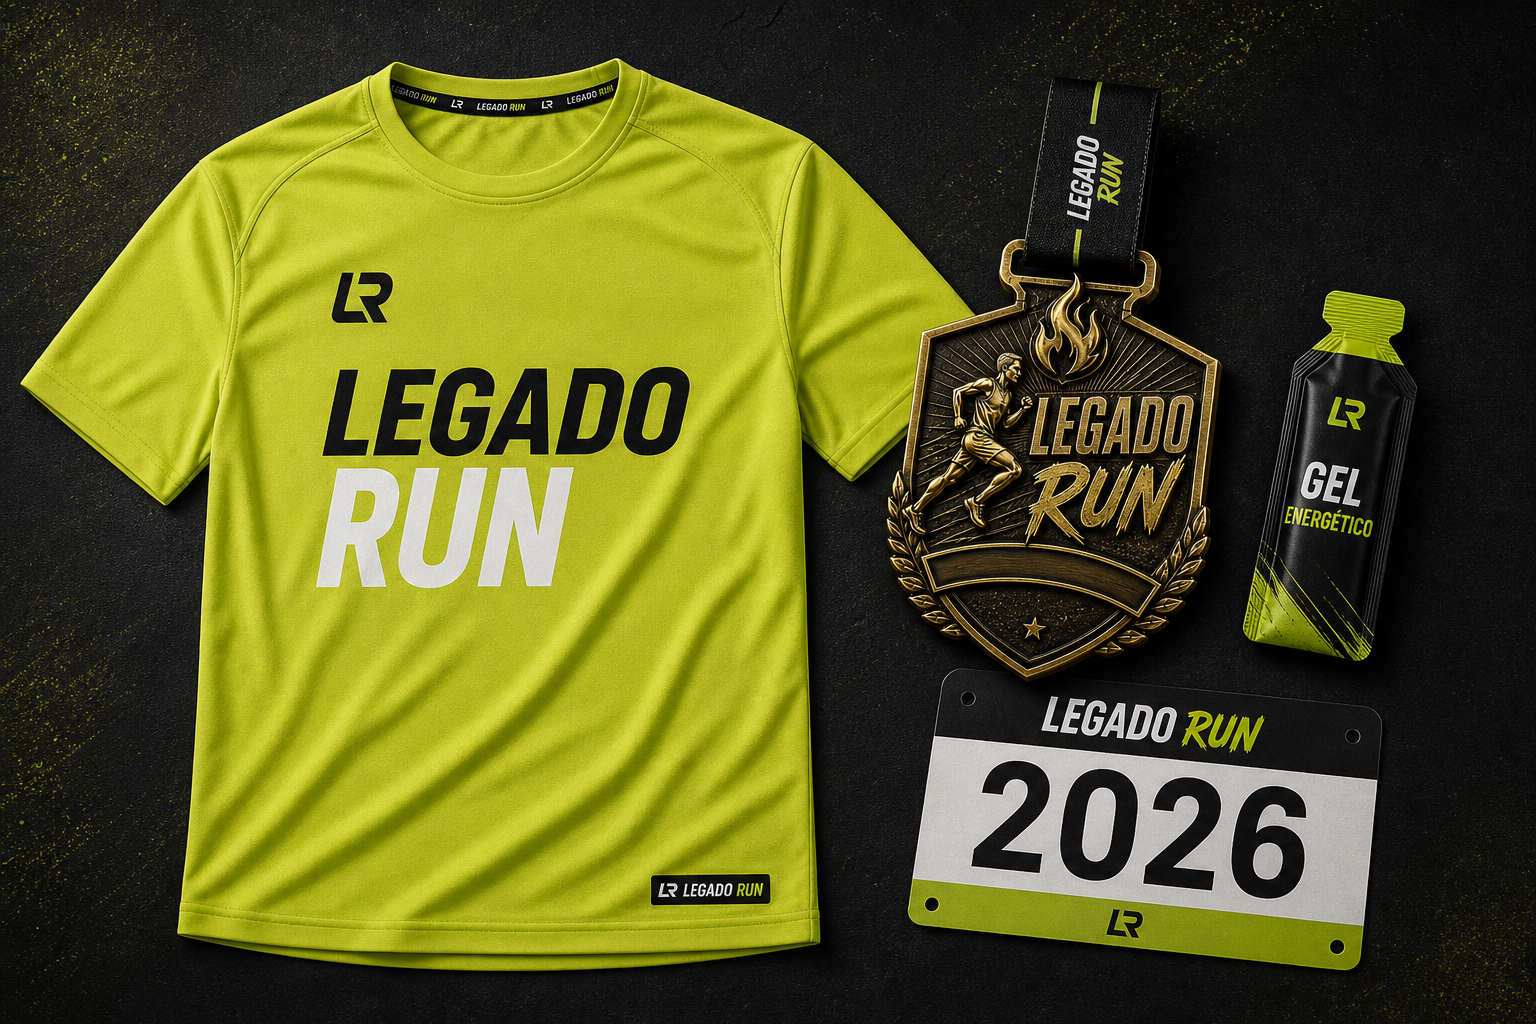
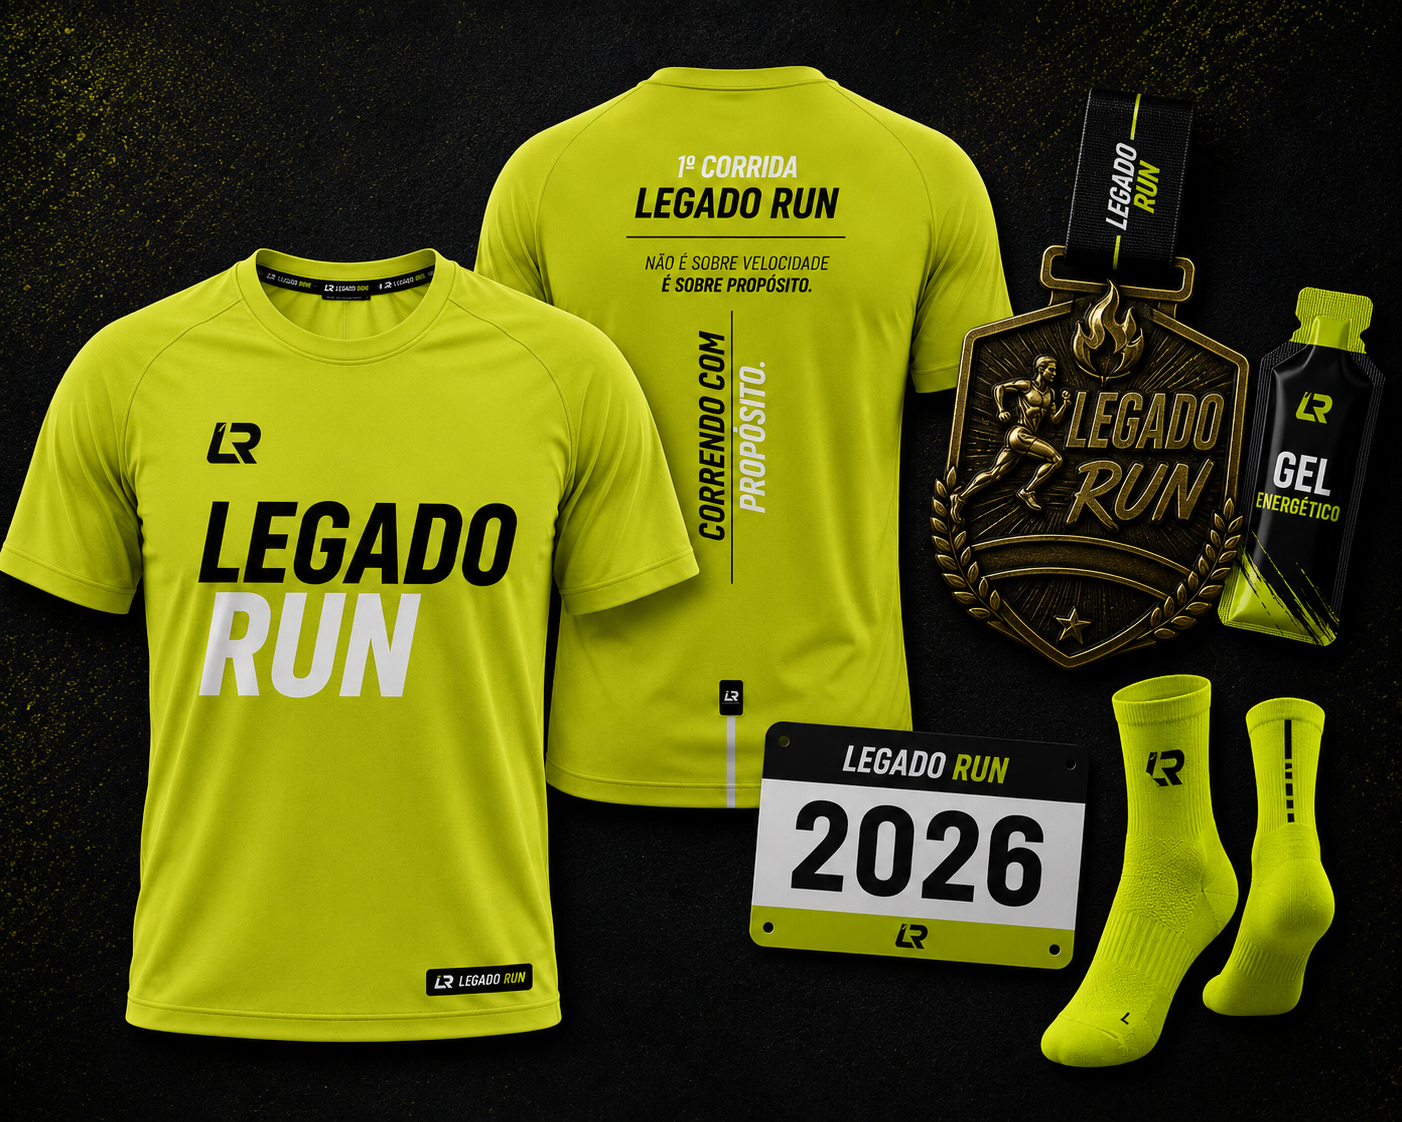
Add files via upload

diff --git a/index.html b/index.html
@@ -132,7 +132,7 @@
 
       <section class="section kit-section" id="kit" aria-labelledby="kit-title">
         <figure class="kit-artwork">
-          <img src="assets/kit-oficial-legado-run-completo.png" alt="Arte do kit LEGADO RUN com camisa oficial, medalha finisher, gel energético e número de peito" />
+          <img src="assets/kit-oficial-legado-run-completo.png" alt="Arte do kit LEGADO RUN com camisa oficial, medalha finisher, gel energético, número de peito e meia" />
           <figcaption>Kit oficial do participante</figcaption>
         </figure>
         <div class="section-copy">
@@ -212,14 +212,14 @@
               O LEGADO RUN conecta empresas a um movimento de qualidade de vida, esporte, desenvolvimento humano
               e impacto social em Belo Horizonte.
             </p>
-            <a class="button button-primary" href="https://wa.me/message/5JKQOATHVNQGC1" target="_blank" rel="noreferrer">
+            <a class="button button-primary" href="https://legadorun.github.io/patrocinadores/" target="_blank" rel="noreferrer">
               Quero ser patrocinador
             </a>
           </div>
           <div class="logo-wall" aria-label="Logos dos patrocinadores">
             <span class="sponsor-logo"><img src="assets/logo-yoav-eventos.jpeg" alt="YOAV Eventos" /></span>
-            <span>Logo</span>
-            <span>Logo</span>
+            <span class="sponsor-logo sponsor-logo-light"><img src="assets/logo-master-clean.jpeg" alt="Master Clean Lavanderia" /></span>
+            <span class="sponsor-logo"><img src="assets/logo-jets-grafica.jpeg" alt="Jets Cartuchos e Copiadora Gráfica" /></span>
             <span>Logo</span>
           </div>
         </div>

diff --git a/styles.css b/styles.css
@@ -540,6 +540,10 @@ h3 {
   background: #050505;
 }
 
+.logo-wall .sponsor-logo-light {
+  background: #ffffff;
+}
+
 .sponsor-logo img {
   width: 100%;
   height: 100%;
